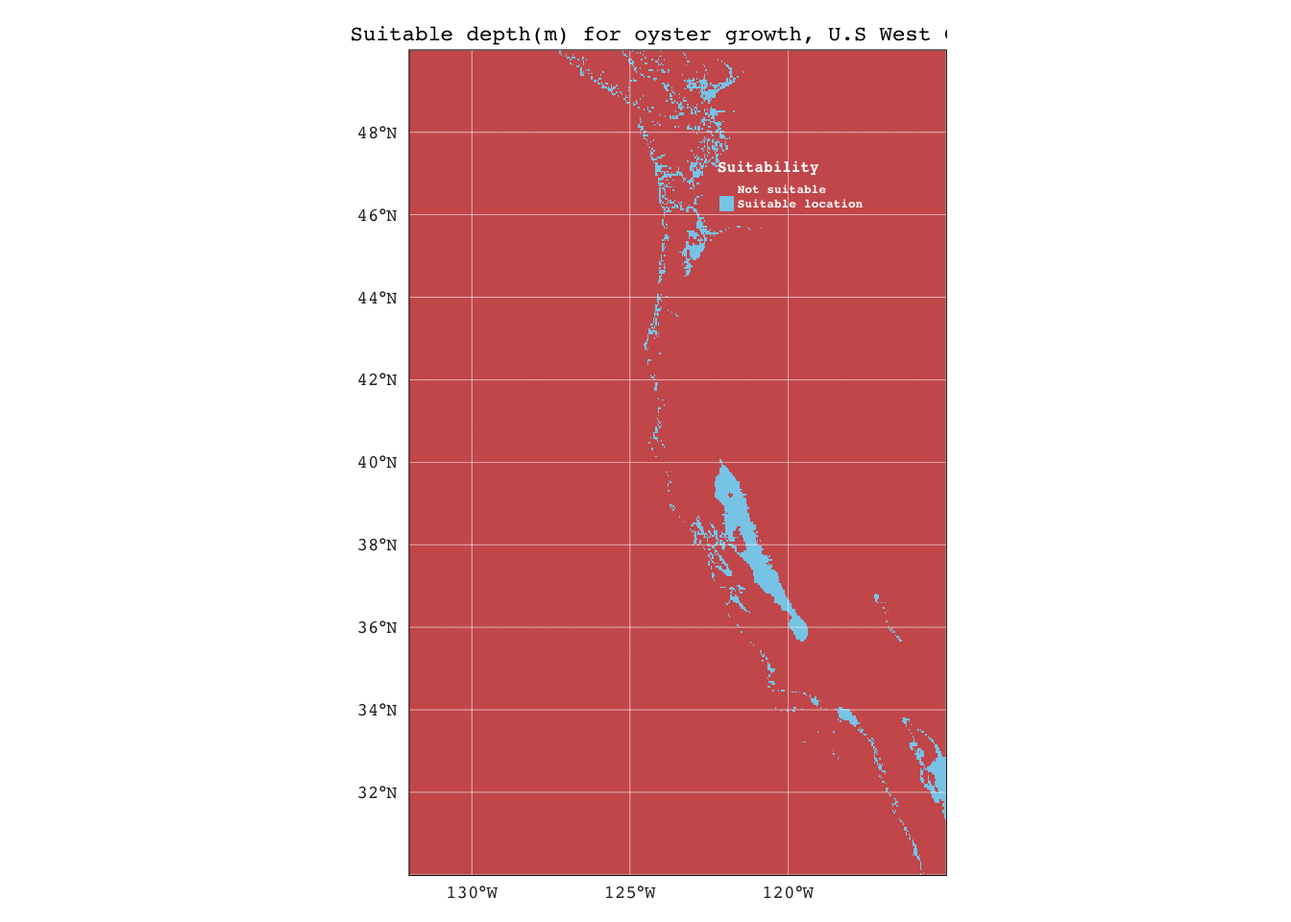
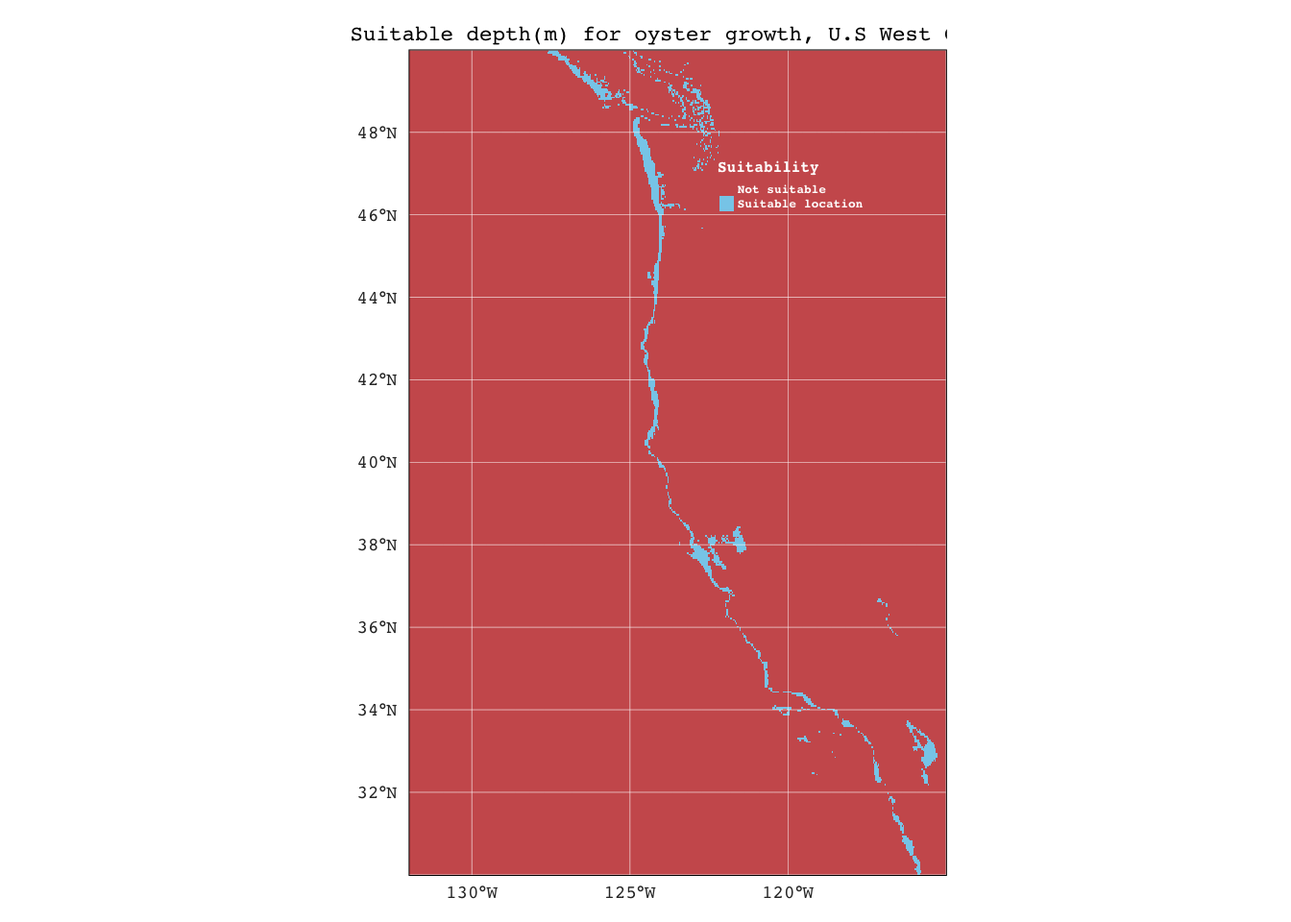
EEZ visualization

diff --git a/HW4.html b/HW4.html
@@ -7,7 +7,7 @@
 <meta name="viewport" content="width=device-width, initial-scale=1.0, user-scalable=yes">
 
 <meta name="author" content="Kaiju Morquecho">
-<meta name="dcterms.date" content="2024-12-06">
+<meta name="dcterms.date" content="2024-12-14">
 
 <title>Homework Assignment #4</title>
 <style>
@@ -76,15 +76,8 @@ pre > code.sourceCode > span > a:first-child::before { text-decoration: underlin
 <body>
 
 <div id="quarto-content" class="page-columns page-rows-contents page-layout-article">
-<div id="quarto-margin-sidebar" class="sidebar margin-sidebar">
-  <nav id="TOC" role="doc-toc" class="toc-active">
-    <h2 id="toc-title">Table of contents</h2>
-   
-  <ul>
-  <li><a href="#sea-surface-temperature-11-30c-done" id="toc-sea-surface-temperature-11-30c-done" class="nav-link active" data-scroll-target="#sea-surface-temperature-11-30c-done">sea surface temperature: 11-30°C done</a></li>
-  <li><a href="#depth-0-70-meters-below-sea-level" id="toc-depth-0-70-meters-below-sea-level" class="nav-link" data-scroll-target="#depth-0-70-meters-below-sea-level">depth: 0-70 meters below sea level</a></li>
-  </ul>
-</nav>
+<div id="quarto-margin-sidebar" class="sidebar margin-sidebar zindex-bottom">
+  
 </div>
 <main class="content" id="quarto-document-content">
 
@@ -108,7 +101,7 @@ pre > code.sourceCode > span > a:first-child::before { text-decoration: underlin
     <div>
     <div class="quarto-title-meta-heading">Published</div>
     <div class="quarto-title-meta-contents">
-      <p class="date">December 6, 2024</p>
+      <p class="date">December 14, 2024</p>
     </div>
   </div>
   
@@ -139,7 +132,7 @@ pre > code.sourceCode > span > a:first-child::before { text-decoration: underlin
 <span id="cb2-4"><a href="#cb2-4" aria-hidden="true" tabindex="-1"></a>sst_2011 <span class="ot">&lt;-</span> <span class="fu">read_stars</span>(<span class="fu">here</span>(<span class="st">"data"</span>,<span class="st">"average_annual_sst_2011.tif"</span>))</span>
 <span id="cb2-5"><a href="#cb2-5" aria-hidden="true" tabindex="-1"></a>sst_2012 <span class="ot">&lt;-</span> <span class="fu">read_stars</span>(<span class="fu">here</span>(<span class="st">"data"</span>,<span class="st">"average_annual_sst_2012.tif"</span>))</span>
 <span id="cb2-6"><a href="#cb2-6" aria-hidden="true" tabindex="-1"></a>depth <span class="ot">&lt;-</span> <span class="fu">read_stars</span>(<span class="fu">here</span>(<span class="st">"data"</span>,<span class="st">"depth.tif"</span>))</span>
-<span id="cb2-7"><a href="#cb2-7" aria-hidden="true" tabindex="-1"></a>ezz <span class="ot">&lt;-</span> <span class="fu">read_sf</span>(<span class="fu">here</span>(<span class="st">"data"</span>,<span class="st">"wc_regions_clean.shp"</span>), <span class="at">quiet =</span> <span class="cn">TRUE</span>)</span></code><button title="Copy to Clipboard" class="code-copy-button"><i class="bi"></i></button></pre></div>
+<span id="cb2-7"><a href="#cb2-7" aria-hidden="true" tabindex="-1"></a>eez <span class="ot">&lt;-</span> <span class="fu">read_sf</span>(<span class="fu">here</span>(<span class="st">"data"</span>,<span class="st">"wc_regions_clean.shp"</span>), <span class="at">quiet =</span> <span class="cn">TRUE</span>)</span></code><button title="Copy to Clipboard" class="code-copy-button"><i class="bi"></i></button></pre></div>
 </div>
 </section>
 <section id="process-data" class="level5">
@@ -172,25 +165,26 @@ pre > code.sourceCode > span > a:first-child::before { text-decoration: underlin
 </div>
 <div class="cell">
 <div class="sourceCode cell-code" id="cb12"><pre class="sourceCode r code-with-copy"><code class="sourceCode r"><span id="cb12-1"><a href="#cb12-1" aria-hidden="true" tabindex="-1"></a>map1 <span class="ot">&lt;-</span> <span class="fu">tm_shape</span>(mean_sst) <span class="sc">+</span></span>
-<span id="cb12-2"><a href="#cb12-2" aria-hidden="true" tabindex="-1"></a>  <span class="fu">tm_raster</span>(<span class="at">palette =</span> <span class="fu">rev</span>(<span class="fu">hcl.colors</span>(<span class="dv">5</span>,<span class="st">"YlGnBu"</span>)),</span>
-<span id="cb12-3"><a href="#cb12-3" aria-hidden="true" tabindex="-1"></a>            <span class="at">style =</span> <span class="st">"pretty"</span>,</span>
+<span id="cb12-2"><a href="#cb12-2" aria-hidden="true" tabindex="-1"></a>  <span class="fu">tm_raster</span>(<span class="at">palette =</span> <span class="fu">rev</span>(<span class="fu">hcl.colors</span>(<span class="dv">5</span>,<span class="st">"Inferno"</span>)),</span>
+<span id="cb12-3"><a href="#cb12-3" aria-hidden="true" tabindex="-1"></a>            <span class="at">style =</span> <span class="st">"cont"</span>,</span>
 <span id="cb12-4"><a href="#cb12-4" aria-hidden="true" tabindex="-1"></a>            <span class="at">colorNA =</span> <span class="st">"black"</span>,</span>
-<span id="cb12-5"><a href="#cb12-5" aria-hidden="true" tabindex="-1"></a>            <span class="at">title =</span> <span class="st">"Sea surface temp (°C)"</span>,</span>
-<span id="cb12-6"><a href="#cb12-6" aria-hidden="true" tabindex="-1"></a>            ) <span class="sc">+</span></span>
-<span id="cb12-7"><a href="#cb12-7" aria-hidden="true" tabindex="-1"></a>  <span class="fu">tm_graticules</span>(<span class="at">lwd =</span> <span class="fl">0.3</span>, </span>
-<span id="cb12-8"><a href="#cb12-8" aria-hidden="true" tabindex="-1"></a>                <span class="at">col =</span> <span class="st">"white"</span>) <span class="sc">+</span></span>
-<span id="cb12-9"><a href="#cb12-9" aria-hidden="true" tabindex="-1"></a>  <span class="fu">tm_layout</span>(<span class="at">fontfamily =</span> <span class="st">"courier"</span>,</span>
-<span id="cb12-10"><a href="#cb12-10" aria-hidden="true" tabindex="-1"></a>            <span class="at">main.title =</span> <span class="st">"Sea surface temperature, U.S West Coast"</span>,</span>
-<span id="cb12-11"><a href="#cb12-11" aria-hidden="true" tabindex="-1"></a>            <span class="at">main.title.size =</span> <span class="dv">1</span>,</span>
-<span id="cb12-12"><a href="#cb12-12" aria-hidden="true" tabindex="-1"></a>            <span class="at">inner.margins =</span> <span class="fu">c</span>(<span class="fl">0.001</span>, <span class="fl">0.001</span>, <span class="fl">0.001</span>, <span class="fl">0.001</span>),</span>
-<span id="cb12-13"><a href="#cb12-13" aria-hidden="true" tabindex="-1"></a>            <span class="at">legend.position =</span> <span class="fu">c</span>(<span class="st">"left"</span>,<span class="st">"BOTTOM"</span>),</span>
-<span id="cb12-14"><a href="#cb12-14" aria-hidden="true" tabindex="-1"></a>            <span class="at">legend.text.size =</span> <span class="fl">0.5</span>,</span>
-<span id="cb12-15"><a href="#cb12-15" aria-hidden="true" tabindex="-1"></a>            <span class="at">legend.title.color =</span> <span class="st">"black"</span>,</span>
-<span id="cb12-16"><a href="#cb12-16" aria-hidden="true" tabindex="-1"></a>            <span class="at">legend.text.color =</span> <span class="st">"black"</span>,</span>
-<span id="cb12-17"><a href="#cb12-17" aria-hidden="true" tabindex="-1"></a>            <span class="at">legend.height =</span> <span class="dv">5</span>,</span>
-<span id="cb12-18"><a href="#cb12-18" aria-hidden="true" tabindex="-1"></a>            <span class="at">legend.title.size =</span> <span class="fl">0.5</span>)</span>
-<span id="cb12-19"><a href="#cb12-19" aria-hidden="true" tabindex="-1"></a></span>
-<span id="cb12-20"><a href="#cb12-20" aria-hidden="true" tabindex="-1"></a>map1</span></code><button title="Copy to Clipboard" class="code-copy-button"><i class="bi"></i></button></pre></div>
+<span id="cb12-5"><a href="#cb12-5" aria-hidden="true" tabindex="-1"></a>            <span class="at">textNA =</span> <span class="st">"Land"</span>,</span>
+<span id="cb12-6"><a href="#cb12-6" aria-hidden="true" tabindex="-1"></a>            <span class="at">title =</span> <span class="st">"Sea surface temp (°C)"</span>,</span>
+<span id="cb12-7"><a href="#cb12-7" aria-hidden="true" tabindex="-1"></a>            ) <span class="sc">+</span></span>
+<span id="cb12-8"><a href="#cb12-8" aria-hidden="true" tabindex="-1"></a>  <span class="fu">tm_graticules</span>(<span class="at">lwd =</span> <span class="fl">0.3</span>, </span>
+<span id="cb12-9"><a href="#cb12-9" aria-hidden="true" tabindex="-1"></a>                <span class="at">col =</span> <span class="st">"white"</span>) <span class="sc">+</span></span>
+<span id="cb12-10"><a href="#cb12-10" aria-hidden="true" tabindex="-1"></a>  <span class="fu">tm_layout</span>(<span class="at">fontfamily =</span> <span class="st">"courier"</span>,</span>
+<span id="cb12-11"><a href="#cb12-11" aria-hidden="true" tabindex="-1"></a>            <span class="at">main.title =</span> <span class="st">"Sea surface temperature, U.S West Coast"</span>,</span>
+<span id="cb12-12"><a href="#cb12-12" aria-hidden="true" tabindex="-1"></a>            <span class="at">main.title.size =</span> <span class="dv">1</span>,</span>
+<span id="cb12-13"><a href="#cb12-13" aria-hidden="true" tabindex="-1"></a>            <span class="at">inner.margins =</span> <span class="fu">c</span>(<span class="fl">0.001</span>, <span class="fl">0.001</span>, <span class="fl">0.001</span>, <span class="fl">0.001</span>),</span>
+<span id="cb12-14"><a href="#cb12-14" aria-hidden="true" tabindex="-1"></a>            <span class="at">legend.position =</span> <span class="fu">c</span>(<span class="st">"left"</span>,<span class="st">"BOTTOM"</span>),</span>
+<span id="cb12-15"><a href="#cb12-15" aria-hidden="true" tabindex="-1"></a>            <span class="at">legend.text.size =</span> <span class="fl">0.5</span>,</span>
+<span id="cb12-16"><a href="#cb12-16" aria-hidden="true" tabindex="-1"></a>            <span class="at">legend.title.color =</span> <span class="st">"black"</span>,</span>
+<span id="cb12-17"><a href="#cb12-17" aria-hidden="true" tabindex="-1"></a>            <span class="at">legend.text.color =</span> <span class="st">"black"</span>,</span>
+<span id="cb12-18"><a href="#cb12-18" aria-hidden="true" tabindex="-1"></a>            <span class="at">legend.height =</span> <span class="dv">5</span>,</span>
+<span id="cb12-19"><a href="#cb12-19" aria-hidden="true" tabindex="-1"></a>            <span class="at">legend.title.size =</span> <span class="fl">0.5</span>)</span>
+<span id="cb12-20"><a href="#cb12-20" aria-hidden="true" tabindex="-1"></a></span>
+<span id="cb12-21"><a href="#cb12-21" aria-hidden="true" tabindex="-1"></a>map1</span></code><button title="Copy to Clipboard" class="code-copy-button"><i class="bi"></i></button></pre></div>
 <div class="cell-output-display">
 <div>
 <figure class="figure">
@@ -200,63 +194,57 @@ pre > code.sourceCode > span > a:first-child::before { text-decoration: underlin
 </div>
 </div>
 <div class="cell">
-<div class="sourceCode cell-code" id="cb13"><pre class="sourceCode r code-with-copy"><code class="sourceCode r"><span id="cb13-1"><a href="#cb13-1" aria-hidden="true" tabindex="-1"></a>test<span class="ot">&lt;-</span> <span class="fu">read_stars</span>(<span class="fu">here</span>(<span class="st">"data"</span>,<span class="st">"depth.tif"</span>))</span>
-<span id="cb13-2"><a href="#cb13-2" aria-hidden="true" tabindex="-1"></a></span>
-<span id="cb13-3"><a href="#cb13-3" aria-hidden="true" tabindex="-1"></a>test[test <span class="sc">&gt;</span> <span class="dv">0</span>] <span class="ot">&lt;-</span> <span class="cn">NA</span></span>
-<span id="cb13-4"><a href="#cb13-4" aria-hidden="true" tabindex="-1"></a></span>
-<span id="cb13-5"><a href="#cb13-5" aria-hidden="true" tabindex="-1"></a></span>
-<span id="cb13-6"><a href="#cb13-6" aria-hidden="true" tabindex="-1"></a>map2 <span class="ot">&lt;-</span> <span class="fu">tm_shape</span>(test) <span class="sc">+</span></span>
-<span id="cb13-7"><a href="#cb13-7" aria-hidden="true" tabindex="-1"></a>  <span class="fu">tm_raster</span>(<span class="at">palette =</span> <span class="fu">rev</span>(<span class="fu">hcl.colors</span>(<span class="dv">8</span>,<span class="st">"Mako"</span>)),</span>
-<span id="cb13-8"><a href="#cb13-8" aria-hidden="true" tabindex="-1"></a>            <span class="at">style =</span> <span class="st">"cont"</span>,</span>
-<span id="cb13-9"><a href="#cb13-9" aria-hidden="true" tabindex="-1"></a>            <span class="at">colorNA =</span> <span class="st">"black"</span>,</span>
-<span id="cb13-10"><a href="#cb13-10" aria-hidden="true" tabindex="-1"></a>            <span class="at">title =</span> <span class="st">"Sea surface temp (°C)"</span>,</span>
-<span id="cb13-11"><a href="#cb13-11" aria-hidden="true" tabindex="-1"></a>            ) <span class="sc">+</span></span>
-<span id="cb13-12"><a href="#cb13-12" aria-hidden="true" tabindex="-1"></a>  <span class="fu">tm_graticules</span>(<span class="at">lwd =</span> <span class="fl">0.3</span>,</span>
-<span id="cb13-13"><a href="#cb13-13" aria-hidden="true" tabindex="-1"></a>                <span class="at">col =</span> <span class="st">"white"</span>) <span class="sc">+</span></span>
-<span id="cb13-14"><a href="#cb13-14" aria-hidden="true" tabindex="-1"></a>  <span class="fu">tm_layout</span>(<span class="at">fontfamily =</span> <span class="st">"courier"</span>,</span>
-<span id="cb13-15"><a href="#cb13-15" aria-hidden="true" tabindex="-1"></a>            <span class="at">main.title =</span> <span class="st">"Sea surface temperature, U.S West Coast"</span>,</span>
-<span id="cb13-16"><a href="#cb13-16" aria-hidden="true" tabindex="-1"></a>            <span class="at">main.title.size =</span> <span class="dv">1</span>,</span>
-<span id="cb13-17"><a href="#cb13-17" aria-hidden="true" tabindex="-1"></a>            <span class="at">legend.position =</span> <span class="fu">c</span>(<span class="st">"left"</span>,<span class="st">"BOTTOM"</span>),</span>
-<span id="cb13-18"><a href="#cb13-18" aria-hidden="true" tabindex="-1"></a>            <span class="at">legend.text.size =</span> <span class="fl">0.5</span>,</span>
-<span id="cb13-19"><a href="#cb13-19" aria-hidden="true" tabindex="-1"></a>            <span class="at">legend.title.color =</span> <span class="st">"black"</span>,</span>
-<span id="cb13-20"><a href="#cb13-20" aria-hidden="true" tabindex="-1"></a>            <span class="at">legend.text.color =</span> <span class="st">"black"</span>,</span>
-<span id="cb13-21"><a href="#cb13-21" aria-hidden="true" tabindex="-1"></a>            <span class="at">legend.height =</span> <span class="dv">5</span>,</span>
-<span id="cb13-22"><a href="#cb13-22" aria-hidden="true" tabindex="-1"></a>            <span class="at">legend.title.size =</span> <span class="fl">0.5</span>)</span>
-<span id="cb13-23"><a href="#cb13-23" aria-hidden="true" tabindex="-1"></a></span>
-<span id="cb13-24"><a href="#cb13-24" aria-hidden="true" tabindex="-1"></a>map2</span></code><button title="Copy to Clipboard" class="code-copy-button"><i class="bi"></i></button></pre></div>
-<div class="cell-output-display">
-<div>
-<figure class="figure">
-<p><img src="HW4_files/figure-html/unnamed-chunk-5-1.png" class="img-fluid figure-img" width="672"></p>
-</figure>
-</div>
-</div>
+<div class="sourceCode cell-code" id="cb13"><pre class="sourceCode r code-with-copy"><code class="sourceCode r"><span id="cb13-1"><a href="#cb13-1" aria-hidden="true" tabindex="-1"></a><span class="co"># check that depth matches mean_sst crs and transform if not</span></span>
+<span id="cb13-2"><a href="#cb13-2" aria-hidden="true" tabindex="-1"></a><span class="cf">if</span>(<span class="fu">st_crs</span>(mean_sst) <span class="sc">==</span> <span class="fu">st_crs</span>(depth)) {</span>
+<span id="cb13-3"><a href="#cb13-3" aria-hidden="true" tabindex="-1"></a>  <span class="fu">print</span>(<span class="st">"crs match!"</span>)</span>
+<span id="cb13-4"><a href="#cb13-4" aria-hidden="true" tabindex="-1"></a>} <span class="cf">else</span> { </span>
+<span id="cb13-5"><a href="#cb13-5" aria-hidden="true" tabindex="-1"></a>  depth <span class="ot">&lt;-</span> <span class="fu">st_transform</span>(depth, <span class="fu">st_crs</span>(mean_sst))</span>
+<span id="cb13-6"><a href="#cb13-6" aria-hidden="true" tabindex="-1"></a>}</span></code><button title="Copy to Clipboard" class="code-copy-button"><i class="bi"></i></button></pre></div>
 </div>
 <div class="cell">
-<div class="sourceCode cell-code" id="cb14"><pre class="sourceCode r code-with-copy"><code class="sourceCode r"><span id="cb14-1"><a href="#cb14-1" aria-hidden="true" tabindex="-1"></a><span class="co"># check that depth matches mean_sst crs and transform if not</span></span>
+<div class="sourceCode cell-code" id="cb14"><pre class="sourceCode r code-with-copy"><code class="sourceCode r"><span id="cb14-1"><a href="#cb14-1" aria-hidden="true" tabindex="-1"></a><span class="co"># double-check after transformation </span></span>
 <span id="cb14-2"><a href="#cb14-2" aria-hidden="true" tabindex="-1"></a><span class="cf">if</span>(<span class="fu">st_crs</span>(mean_sst) <span class="sc">==</span> <span class="fu">st_crs</span>(depth)) {</span>
 <span id="cb14-3"><a href="#cb14-3" aria-hidden="true" tabindex="-1"></a>  <span class="fu">print</span>(<span class="st">"crs match!"</span>)</span>
 <span id="cb14-4"><a href="#cb14-4" aria-hidden="true" tabindex="-1"></a>} <span class="cf">else</span> { </span>
-<span id="cb14-5"><a href="#cb14-5" aria-hidden="true" tabindex="-1"></a>  depth <span class="ot">&lt;-</span> <span class="fu">st_transform</span>(depth, <span class="fu">st_crs</span>(mean_sst))</span>
+<span id="cb14-5"><a href="#cb14-5" aria-hidden="true" tabindex="-1"></a>  <span class="fu">print</span>(<span class="st">"crs don't match!"</span>)</span>
 <span id="cb14-6"><a href="#cb14-6" aria-hidden="true" tabindex="-1"></a>}</span></code><button title="Copy to Clipboard" class="code-copy-button"><i class="bi"></i></button></pre></div>
-</div>
-<div class="cell">
-<div class="sourceCode cell-code" id="cb15"><pre class="sourceCode r code-with-copy"><code class="sourceCode r"><span id="cb15-1"><a href="#cb15-1" aria-hidden="true" tabindex="-1"></a><span class="co"># double-check after transformation </span></span>
-<span id="cb15-2"><a href="#cb15-2" aria-hidden="true" tabindex="-1"></a><span class="cf">if</span>(<span class="fu">st_crs</span>(mean_sst) <span class="sc">==</span> <span class="fu">st_crs</span>(depth)) {</span>
-<span id="cb15-3"><a href="#cb15-3" aria-hidden="true" tabindex="-1"></a>  <span class="fu">print</span>(<span class="st">"crs match!"</span>)</span>
-<span id="cb15-4"><a href="#cb15-4" aria-hidden="true" tabindex="-1"></a>} <span class="cf">else</span> { </span>
-<span id="cb15-5"><a href="#cb15-5" aria-hidden="true" tabindex="-1"></a>  <span class="fu">print</span>(<span class="st">"crs don't match!"</span>)</span>
-<span id="cb15-6"><a href="#cb15-6" aria-hidden="true" tabindex="-1"></a>}</span></code><button title="Copy to Clipboard" class="code-copy-button"><i class="bi"></i></button></pre></div>
 <div class="cell-output cell-output-stdout">
 <pre><code>[1] "crs match!"</code></pre>
 </div>
 </div>
 <div class="cell">
-<div class="sourceCode cell-code" id="cb17"><pre class="sourceCode r code-with-copy"><code class="sourceCode r"><span id="cb17-1"><a href="#cb17-1" aria-hidden="true" tabindex="-1"></a><span class="co"># match extents and resample to mean_sst resolution using nearest neighbor ("near")</span></span>
-<span id="cb17-2"><a href="#cb17-2" aria-hidden="true" tabindex="-1"></a>depth_resampled <span class="ot">&lt;-</span> <span class="fu">st_warp</span>(depth,mean_sst, <span class="at">method =</span> <span class="st">"near"</span>)</span>
-<span id="cb17-3"><a href="#cb17-3" aria-hidden="true" tabindex="-1"></a><span class="co"># stack to verify</span></span>
-<span id="cb17-4"><a href="#cb17-4" aria-hidden="true" tabindex="-1"></a>depth_sst <span class="ot">&lt;-</span> <span class="fu">c</span>(depth_resampled,mean_sst)</span>
-<span id="cb17-5"><a href="#cb17-5" aria-hidden="true" tabindex="-1"></a><span class="co"># stacked successfully </span></span></code><button title="Copy to Clipboard" class="code-copy-button"><i class="bi"></i></button></pre></div>
+<div class="sourceCode cell-code" id="cb16"><pre class="sourceCode r code-with-copy"><code class="sourceCode r"><span id="cb16-1"><a href="#cb16-1" aria-hidden="true" tabindex="-1"></a><span class="co"># match extents and resample to mean_sst resolution using nearest neighbor ("near")</span></span>
+<span id="cb16-2"><a href="#cb16-2" aria-hidden="true" tabindex="-1"></a>depth_resampled <span class="ot">&lt;-</span> <span class="fu">st_warp</span>(depth,mean_sst, <span class="at">method =</span> <span class="st">"near"</span>)</span>
+<span id="cb16-3"><a href="#cb16-3" aria-hidden="true" tabindex="-1"></a><span class="co"># stack to verify</span></span>
+<span id="cb16-4"><a href="#cb16-4" aria-hidden="true" tabindex="-1"></a>depth_sst <span class="ot">&lt;-</span> <span class="fu">c</span>(depth_resampled,mean_sst)</span>
+<span id="cb16-5"><a href="#cb16-5" aria-hidden="true" tabindex="-1"></a><span class="co"># stacked successfully </span></span></code><button title="Copy to Clipboard" class="code-copy-button"><i class="bi"></i></button></pre></div>
+</div>
+<div class="cell">
+<div class="sourceCode cell-code" id="cb17"><pre class="sourceCode r code-with-copy"><code class="sourceCode r"><span id="cb17-1"><a href="#cb17-1" aria-hidden="true" tabindex="-1"></a>map2 <span class="ot">&lt;-</span> <span class="fu">tm_shape</span>(depth_resampled) <span class="sc">+</span></span>
+<span id="cb17-2"><a href="#cb17-2" aria-hidden="true" tabindex="-1"></a>  <span class="fu">tm_raster</span>(<span class="at">palette =</span> <span class="fu">rev</span>(<span class="fu">hcl.colors</span>(<span class="dv">8</span>,<span class="st">"Mako"</span>)),</span>
+<span id="cb17-3"><a href="#cb17-3" aria-hidden="true" tabindex="-1"></a>            <span class="at">style =</span> <span class="st">"cont"</span>,</span>
+<span id="cb17-4"><a href="#cb17-4" aria-hidden="true" tabindex="-1"></a>            <span class="at">colorNA =</span> <span class="st">"black"</span>,</span>
+<span id="cb17-5"><a href="#cb17-5" aria-hidden="true" tabindex="-1"></a>            <span class="at">title =</span> <span class="st">"Depth (m)"</span>) <span class="sc">+</span></span>
+<span id="cb17-6"><a href="#cb17-6" aria-hidden="true" tabindex="-1"></a>  <span class="fu">tm_graticules</span>(<span class="at">lwd =</span> <span class="fl">0.3</span>,</span>
+<span id="cb17-7"><a href="#cb17-7" aria-hidden="true" tabindex="-1"></a>                <span class="at">col =</span> <span class="st">"white"</span>) <span class="sc">+</span></span>
+<span id="cb17-8"><a href="#cb17-8" aria-hidden="true" tabindex="-1"></a>  <span class="fu">tm_layout</span>(<span class="at">fontfamily =</span> <span class="st">"courier"</span>,</span>
+<span id="cb17-9"><a href="#cb17-9" aria-hidden="true" tabindex="-1"></a>            <span class="at">main.title =</span> <span class="st">"Depth, U.S West Coast"</span>,</span>
+<span id="cb17-10"><a href="#cb17-10" aria-hidden="true" tabindex="-1"></a>            <span class="at">main.title.size =</span> <span class="dv">1</span>,</span>
+<span id="cb17-11"><a href="#cb17-11" aria-hidden="true" tabindex="-1"></a>            <span class="at">legend.position =</span> <span class="fu">c</span>(<span class="st">"left"</span>,<span class="st">"BOTTOM"</span>),</span>
+<span id="cb17-12"><a href="#cb17-12" aria-hidden="true" tabindex="-1"></a>            <span class="at">legend.text.size =</span> <span class="fl">0.5</span>,</span>
+<span id="cb17-13"><a href="#cb17-13" aria-hidden="true" tabindex="-1"></a>            <span class="at">legend.title.color =</span> <span class="st">"black"</span>,</span>
+<span id="cb17-14"><a href="#cb17-14" aria-hidden="true" tabindex="-1"></a>            <span class="at">legend.text.color =</span> <span class="st">"black"</span>,</span>
+<span id="cb17-15"><a href="#cb17-15" aria-hidden="true" tabindex="-1"></a>            <span class="at">legend.height =</span> <span class="dv">5</span>,</span>
+<span id="cb17-16"><a href="#cb17-16" aria-hidden="true" tabindex="-1"></a>            <span class="at">legend.title.size =</span> <span class="fl">0.5</span>)</span>
+<span id="cb17-17"><a href="#cb17-17" aria-hidden="true" tabindex="-1"></a></span>
+<span id="cb17-18"><a href="#cb17-18" aria-hidden="true" tabindex="-1"></a>map2</span></code><button title="Copy to Clipboard" class="code-copy-button"><i class="bi"></i></button></pre></div>
+<div class="cell-output-display">
+<div>
+<figure class="figure">
+<p><img src="HW4_files/figure-html/unnamed-chunk-8-1.png" class="img-fluid figure-img" width="672"></p>
+</figure>
+</div>
+</div>
 </div>
 </section>
 <section id="find-suitable-locations-for-oysters" class="level5">
@@ -273,16 +261,17 @@ pre > code.sourceCode > span > a:first-child::before { text-decoration: underlin
 <span id="cb18-9"><a href="#cb18-9" aria-hidden="true" tabindex="-1"></a>reclassified_sst <span class="ot">&lt;-</span> <span class="fu">classify</span>(mean_sst, <span class="at">rcl =</span> rcl_sst)</span>
 <span id="cb18-10"><a href="#cb18-10" aria-hidden="true" tabindex="-1"></a></span>
 <span id="cb18-11"><a href="#cb18-11" aria-hidden="true" tabindex="-1"></a><span class="co"># reclassify depth</span></span>
-<span id="cb18-12"><a href="#cb18-12" aria-hidden="true" tabindex="-1"></a>rcl_depth <span class="ot">&lt;-</span> <span class="fu">matrix</span>(<span class="fu">c</span>(<span class="sc">-</span><span class="cn">Inf</span>, <span class="dv">0</span>, <span class="dv">0</span>,</span>
-<span id="cb18-13"><a href="#cb18-13" aria-hidden="true" tabindex="-1"></a>                <span class="dv">0</span>, <span class="dv">70</span>, <span class="dv">1</span>,</span>
-<span id="cb18-14"><a href="#cb18-14" aria-hidden="true" tabindex="-1"></a>                <span class="dv">70</span>, <span class="cn">Inf</span>, <span class="dv">0</span>),</span>
-<span id="cb18-15"><a href="#cb18-15" aria-hidden="true" tabindex="-1"></a>                <span class="at">ncol =</span> <span class="dv">3</span>, <span class="at">byrow =</span> <span class="cn">TRUE</span>)</span>
-<span id="cb18-16"><a href="#cb18-16" aria-hidden="true" tabindex="-1"></a></span>
-<span id="cb18-17"><a href="#cb18-17" aria-hidden="true" tabindex="-1"></a>depth_resampled <span class="ot">&lt;-</span> <span class="fu">rast</span>(depth_resampled)</span>
-<span id="cb18-18"><a href="#cb18-18" aria-hidden="true" tabindex="-1"></a></span>
-<span id="cb18-19"><a href="#cb18-19" aria-hidden="true" tabindex="-1"></a>reclassified_depth <span class="ot">&lt;-</span> <span class="fu">classify</span>(depth_resampled, <span class="at">rcl =</span> rcl_depth)</span>
-<span id="cb18-20"><a href="#cb18-20" aria-hidden="true" tabindex="-1"></a></span>
-<span id="cb18-21"><a href="#cb18-21" aria-hidden="true" tabindex="-1"></a>suitable_locations <span class="ot">&lt;-</span> reclassified_sst <span class="sc">*</span> reclassified_depth</span></code><button title="Copy to Clipboard" class="code-copy-button"><i class="bi"></i></button></pre></div>
+<span id="cb18-12"><a href="#cb18-12" aria-hidden="true" tabindex="-1"></a></span>
+<span id="cb18-13"><a href="#cb18-13" aria-hidden="true" tabindex="-1"></a>rcl_depth <span class="ot">&lt;-</span> <span class="fu">matrix</span>(<span class="fu">c</span>(<span class="sc">-</span><span class="cn">Inf</span>, <span class="sc">-</span><span class="dv">70</span>, <span class="dv">0</span>,</span>
+<span id="cb18-14"><a href="#cb18-14" aria-hidden="true" tabindex="-1"></a>                <span class="sc">-</span><span class="dv">70</span>, <span class="dv">0</span>, <span class="dv">1</span>,</span>
+<span id="cb18-15"><a href="#cb18-15" aria-hidden="true" tabindex="-1"></a>                <span class="dv">0</span>, <span class="cn">Inf</span>, <span class="dv">0</span>),</span>
+<span id="cb18-16"><a href="#cb18-16" aria-hidden="true" tabindex="-1"></a>                <span class="at">ncol =</span> <span class="dv">3</span>, <span class="at">byrow =</span> <span class="cn">TRUE</span>)</span>
+<span id="cb18-17"><a href="#cb18-17" aria-hidden="true" tabindex="-1"></a></span>
+<span id="cb18-18"><a href="#cb18-18" aria-hidden="true" tabindex="-1"></a>depth_resampled <span class="ot">&lt;-</span> <span class="fu">rast</span>(depth_resampled)</span>
+<span id="cb18-19"><a href="#cb18-19" aria-hidden="true" tabindex="-1"></a></span>
+<span id="cb18-20"><a href="#cb18-20" aria-hidden="true" tabindex="-1"></a>reclassified_depth <span class="ot">&lt;-</span> <span class="fu">classify</span>(depth_resampled, <span class="at">rcl =</span> rcl_depth)</span>
+<span id="cb18-21"><a href="#cb18-21" aria-hidden="true" tabindex="-1"></a></span>
+<span id="cb18-22"><a href="#cb18-22" aria-hidden="true" tabindex="-1"></a>suitable_locations <span class="ot">&lt;-</span> reclassified_sst <span class="sc">*</span> reclassified_depth</span></code><button title="Copy to Clipboard" class="code-copy-button"><i class="bi"></i></button></pre></div>
 </div>
 <div class="cell">
 <div class="sourceCode cell-code" id="cb19"><pre class="sourceCode r code-with-copy"><code class="sourceCode r"><span id="cb19-1"><a href="#cb19-1" aria-hidden="true" tabindex="-1"></a>map3 <span class="ot">&lt;-</span> <span class="fu">tm_shape</span>(reclassified_sst) <span class="sc">+</span></span>
@@ -380,12 +369,50 @@ pre > code.sourceCode > span > a:first-child::before { text-decoration: underlin
 </div>
 </div>
 </div>
-</section>
-<section id="sea-surface-temperature-11-30c-done" class="level2">
-<h2 class="anchored" data-anchor-id="sea-surface-temperature-11-30c-done">sea surface temperature: 11-30°C done</h2>
-</section>
-<section id="depth-0-70-meters-below-sea-level" class="level2">
-<h2 class="anchored" data-anchor-id="depth-0-70-meters-below-sea-level">depth: 0-70 meters below sea level</h2>
+<div class="cell">
+<div class="sourceCode cell-code" id="cb22"><pre class="sourceCode r code-with-copy"><code class="sourceCode r"><span id="cb22-1"><a href="#cb22-1" aria-hidden="true" tabindex="-1"></a>eez_map <span class="ot">&lt;-</span> <span class="fu">tm_shape</span>(eez) <span class="sc">+</span></span>
+<span id="cb22-2"><a href="#cb22-2" aria-hidden="true" tabindex="-1"></a>  <span class="fu">tm_polygons</span>(<span class="at">col =</span> <span class="st">"rgn"</span>,</span>
+<span id="cb22-3"><a href="#cb22-3" aria-hidden="true" tabindex="-1"></a>              <span class="at">palette =</span> <span class="fu">hcl.colors</span>(<span class="dv">5</span>, <span class="st">"Temp"</span>),</span>
+<span id="cb22-4"><a href="#cb22-4" aria-hidden="true" tabindex="-1"></a>              <span class="at">border.col =</span> <span class="st">"black"</span>,</span>
+<span id="cb22-5"><a href="#cb22-5" aria-hidden="true" tabindex="-1"></a>              <span class="at">lwd =</span> <span class="fl">0.7</span>,</span>
+<span id="cb22-6"><a href="#cb22-6" aria-hidden="true" tabindex="-1"></a>              <span class="at">title =</span> <span class="st">"EEZ region"</span>) <span class="sc">+</span></span>
+<span id="cb22-7"><a href="#cb22-7" aria-hidden="true" tabindex="-1"></a>  <span class="fu">tm_text</span>(<span class="at">text =</span> <span class="st">"rgn"</span>,</span>
+<span id="cb22-8"><a href="#cb22-8" aria-hidden="true" tabindex="-1"></a>          <span class="at">size =</span> <span class="fl">0.6</span>,</span>
+<span id="cb22-9"><a href="#cb22-9" aria-hidden="true" tabindex="-1"></a>          <span class="at">col =</span> <span class="st">"black"</span>,</span>
+<span id="cb22-10"><a href="#cb22-10" aria-hidden="true" tabindex="-1"></a>          <span class="at">fontface =</span> <span class="st">"bold"</span>) <span class="sc">+</span></span>
+<span id="cb22-11"><a href="#cb22-11" aria-hidden="true" tabindex="-1"></a>  <span class="fu">tm_layout</span>(<span class="at">fontfamily =</span> <span class="st">"courier"</span>,</span>
+<span id="cb22-12"><a href="#cb22-12" aria-hidden="true" tabindex="-1"></a>            <span class="at">main.title =</span> <span class="st">"Exclusive Economic Zone (EEZ)"</span>,</span>
+<span id="cb22-13"><a href="#cb22-13" aria-hidden="true" tabindex="-1"></a>            <span class="at">main.title.size =</span> <span class="fl">0.8</span>,</span>
+<span id="cb22-14"><a href="#cb22-14" aria-hidden="true" tabindex="-1"></a>            <span class="at">main.title.fontface =</span> <span class="st">"bold"</span>,</span>
+<span id="cb22-15"><a href="#cb22-15" aria-hidden="true" tabindex="-1"></a>            <span class="at">legend.text.size =</span> <span class="fl">0.5</span>,</span>
+<span id="cb22-16"><a href="#cb22-16" aria-hidden="true" tabindex="-1"></a>            <span class="at">legend.title.size =</span> <span class="fl">0.6</span>,</span>
+<span id="cb22-17"><a href="#cb22-17" aria-hidden="true" tabindex="-1"></a>            <span class="at">legend.position =</span> <span class="fu">c</span>(<span class="st">"left"</span>,<span class="st">"BOTTOM"</span>)) <span class="sc">+</span></span>
+<span id="cb22-18"><a href="#cb22-18" aria-hidden="true" tabindex="-1"></a>  <span class="fu">tm_graticules</span>(<span class="at">col =</span> <span class="st">"black"</span>,</span>
+<span id="cb22-19"><a href="#cb22-19" aria-hidden="true" tabindex="-1"></a>                <span class="at">lwd =</span> <span class="fl">0.3</span>,</span>
+<span id="cb22-20"><a href="#cb22-20" aria-hidden="true" tabindex="-1"></a>                <span class="at">alpha =</span> <span class="fl">0.5</span>) </span>
+<span id="cb22-21"><a href="#cb22-21" aria-hidden="true" tabindex="-1"></a>  </span>
+<span id="cb22-22"><a href="#cb22-22" aria-hidden="true" tabindex="-1"></a></span>
+<span id="cb22-23"><a href="#cb22-23" aria-hidden="true" tabindex="-1"></a>eez_map</span></code><button title="Copy to Clipboard" class="code-copy-button"><i class="bi"></i></button></pre></div>
+<div class="cell-output-display">
+<div>
+<figure class="figure">
+<p><img src="HW4_files/figure-html/unnamed-chunk-13-1.png" class="img-fluid figure-img" width="672"></p>
+</figure>
+</div>
+</div>
+</div>
+<div class="cell">
+<div class="sourceCode cell-code" id="cb23"><pre class="sourceCode r code-with-copy"><code class="sourceCode r"><span id="cb23-1"><a href="#cb23-1" aria-hidden="true" tabindex="-1"></a><span class="co"># suitable_locations set to NAs</span></span>
+<span id="cb23-2"><a href="#cb23-2" aria-hidden="true" tabindex="-1"></a><span class="co"># then mask suitable cells, using eez as vector </span></span>
+<span id="cb23-3"><a href="#cb23-3" aria-hidden="true" tabindex="-1"></a><span class="co"># cell area of suitable locations </span></span>
+<span id="cb23-4"><a href="#cb23-4" aria-hidden="true" tabindex="-1"></a><span class="co"># eez_rast &lt;- rasterize(eez), can use suitable locations rast as template</span></span>
+<span id="cb23-5"><a href="#cb23-5" aria-hidden="true" tabindex="-1"></a><span class="co"># need template raster with matching res, crs </span></span>
+<span id="cb23-6"><a href="#cb23-6" aria-hidden="true" tabindex="-1"></a><span class="co"># zonal function terra</span></span>
+<span id="cb23-7"><a href="#cb23-7" aria-hidden="true" tabindex="-1"></a><span class="co">#  </span></span>
+<span id="cb23-8"><a href="#cb23-8" aria-hidden="true" tabindex="-1"></a><span class="co"># field argument rasterize()</span></span>
+<span id="cb23-9"><a href="#cb23-9" aria-hidden="true" tabindex="-1"></a><span class="co"># </span></span>
+<span id="cb23-10"><a href="#cb23-10" aria-hidden="true" tabindex="-1"></a><span class="co"># any species, megaladon </span></span></code><button title="Copy to Clipboard" class="code-copy-button"><i class="bi"></i></button></pre></div>
+</div>
 </section>
 
 </main>
